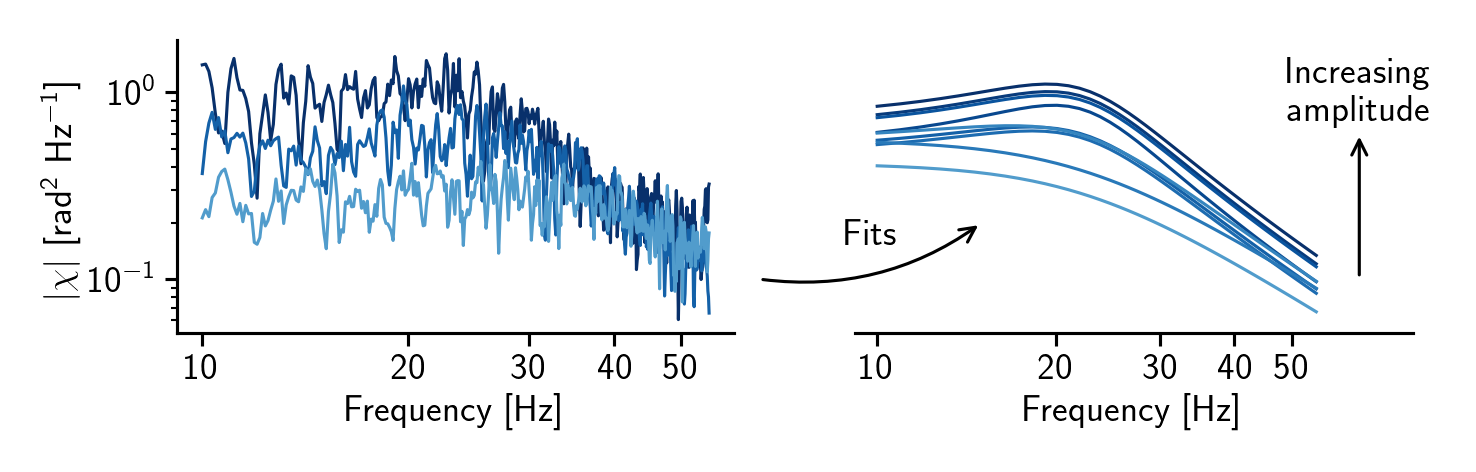
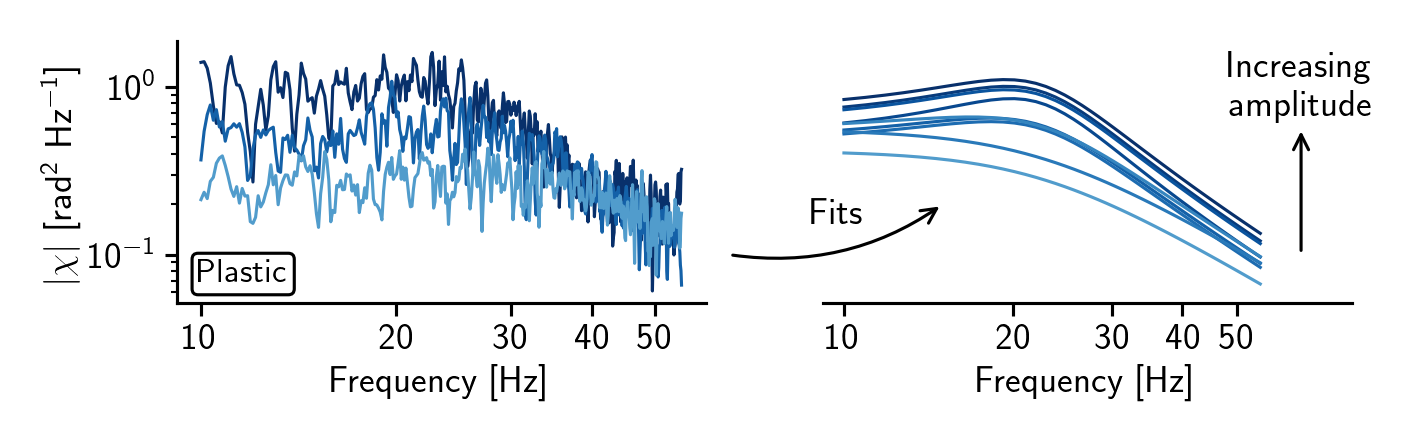
material label

diff --git a/05-milieux-granulaires/analyse/plot_psd.py b/05-milieux-granulaires/analyse/plot_psd.py
@@ -35,11 +35,13 @@ chosen3 = data[15]
 chosen4 = data[17]
 all_chosen = [chosen1, chosen2, chosen3, chosen4]
 
+# ==== Data plot =====
 cmap = truncate_colormap(plt.cm.Blues, 0.4, 1.0)
 norm = mpl.colors.Normalize(vmin=chosen4.imposed_vibration, vmax=chosen1.imposed_vibration)
 for chosen in all_chosen:
     plt.loglog(chosen.freqs, chosen.psd, c=cmap(chosen.imposed_vibration))
 
+# ==== Annotation arrow ====
 lims = plt.xlim()
 plt.xlim(lims[0], 80)
 plt.annotate(
@@ -49,6 +51,7 @@ plt.annotate(
         arrowstyle='<-', color="k",
     ))
 
+# ==== Ticks ====
 ax = plt.gca()
 ax.xaxis.minorticks_off()
 ax.xaxis.set_major_formatter(mpl.ticker.ScalarFormatter())
@@ -56,6 +59,21 @@ plt.xticks([10,20,30,40,50])
 # plt.xticks([10])
 plt.xlabel(r"Frequency [Hz]")
 plt.ylabel(r"PSD [rad$^{2}$ Hz$^{-1}$]")
+
+# ==== Material label ====
+material_text_size=16
+material_text_position = (0.04, 0.07)
+material_text_padding=0.18
+ax.text(
+            material_text_position[0],material_text_position[1], "Sand",
+            size=material_text_size,
+            horizontalalignment='left',
+            verticalalignment='center',
+            transform = ax.transAxes,
+            bbox=dict(facecolor='none', edgecolor='black', boxstyle=f'round,pad={material_text_padding}')
+            )
+
+
 plt.tight_layout()
 plt.savefig('../figures/sand_psd_nice.png')
 plt.show()

diff --git a/05-milieux-granulaires/analyse/plot_abs_chi.py b/05-milieux-granulaires/analyse/plot_abs_chi.py
@@ -18,7 +18,7 @@ std_devs = unp.std_devs
 mpl.rcParams.update(rcParams)
 
 # mpl.rcParams['savefig.bbox'] = 'standard'
-mpl.rcParams["figure.figsize"] = (25*INCH_PER_CM, 8*INCH_PER_CM)
+mpl.rcParams["figure.figsize"] = (24*INCH_PER_CM, 7.5*INCH_PER_CM)
 # mpl.rcParams["figure.subplot.left"]   = 0.21
 # mpl.rcParams['figure.subplot.right']  = 0.75
 # mpl.rcParams['figure.subplot.top']    = 0.97
@@ -77,6 +77,19 @@ arr = ax[1].annotate(
         connectionstyle="arc3,rad=-0.2"
     ))
 ax[1].annotate("Fits", (.5, .5), xycoords=arr, ha='center', va='bottom')
+
+# ==== Material label ====
+material_text_size=16
+material_text_position = (0.04, 0.11)
+material_text_padding=0.18
+ax[0].text(
+            material_text_position[0],material_text_position[1], "Plastic",
+            size=material_text_size,
+            horizontalalignment='left',
+            verticalalignment='center',
+            transform = ax[0].transAxes,
+            bbox=dict(facecolor='none', edgecolor='black', boxstyle=f'round,pad={material_text_padding}')
+            )
 
 
 ax[0].xaxis.minorticks_off()
